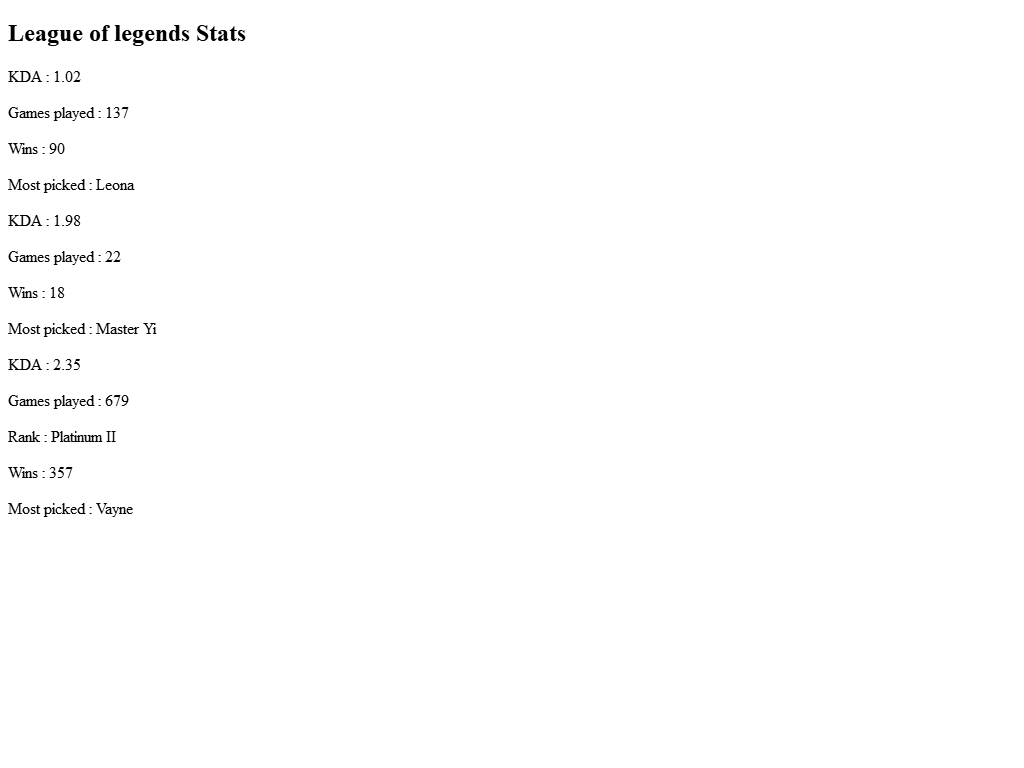
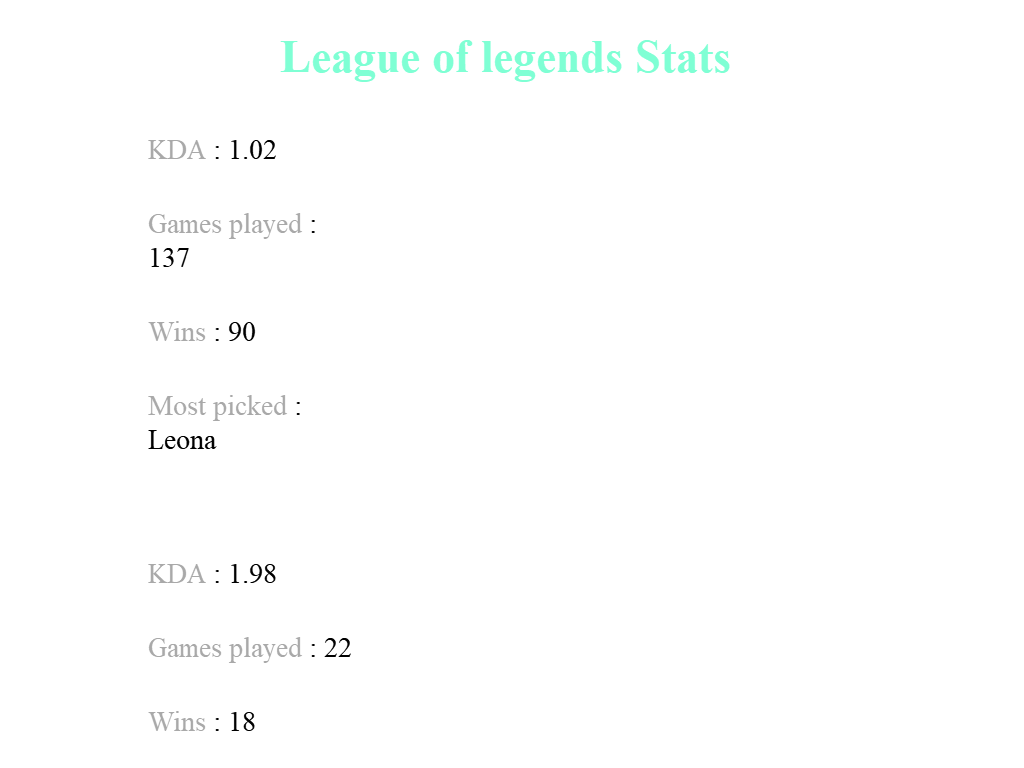
t

diff --git a/index.html b/index.html
@@ -3,7 +3,67 @@
   <head>
     <meta charset="UTF-8">
     <title>title</title>
-  <link rel="stylesheet" href="style.css" type="text/css">
+  <style>
+    @font-face {
+      font-family: AstronBoyVideo;
+      src: url(polices/astronboy/astronboyvideo.woff);
+    }
+
+    @font-face {
+      font-family: AstronBoyItalic;
+      src: url(polices/astronboy/astronboyitalic.woff);
+    }
+
+    main {
+      font-family: AstronBoyVideo;
+      width: 800px;
+      height: 489px;
+      margin: 0 auto;
+      padding: 20px;
+      background: url('file:///${path.join(__dirname, '/media/img/irelia.jpg')}') no-repeat center 0px;
+    }
+
+    header h2 {
+      display: block;
+      width: 58%;
+      height: auto;
+      color: aquamarine;
+      margin: 0 auto;
+      font-size: 46px;
+    }
+
+    section {
+      width: 100%;
+      height: auto;
+      display: flex;
+      justify-content: space-between;
+    }
+
+    .stats {
+      width: 33%;
+      padding: 10px;
+      background: rgb(255, 255, 255, 0.7);
+    }
+
+    .stats p {
+      font-size: 28px;
+      font-family: AstronBoyItalic;
+    }
+
+    .stats span {
+      color: rgb(169, 169, 169);
+    }
+
+    .stats .kda,
+    .stats .played,
+    .stats .wins,
+    .stats .mostpick,
+    .stats .rank {
+      width: 80%;
+      height: auto;
+      margin: 40px auto;
+    }
+  </style>
   </head>
   <body>
   <main>

diff --git a/index.js b/index.js
@@ -31,7 +31,6 @@ bot.on('message', function(message){
 
 				message.channel.send({embed: {
 				    color: 3447003,
-				    title: "Stat League Of Legend",
 				    url: json.data.link,
 				    image: {
 				    	url : json.data.link
